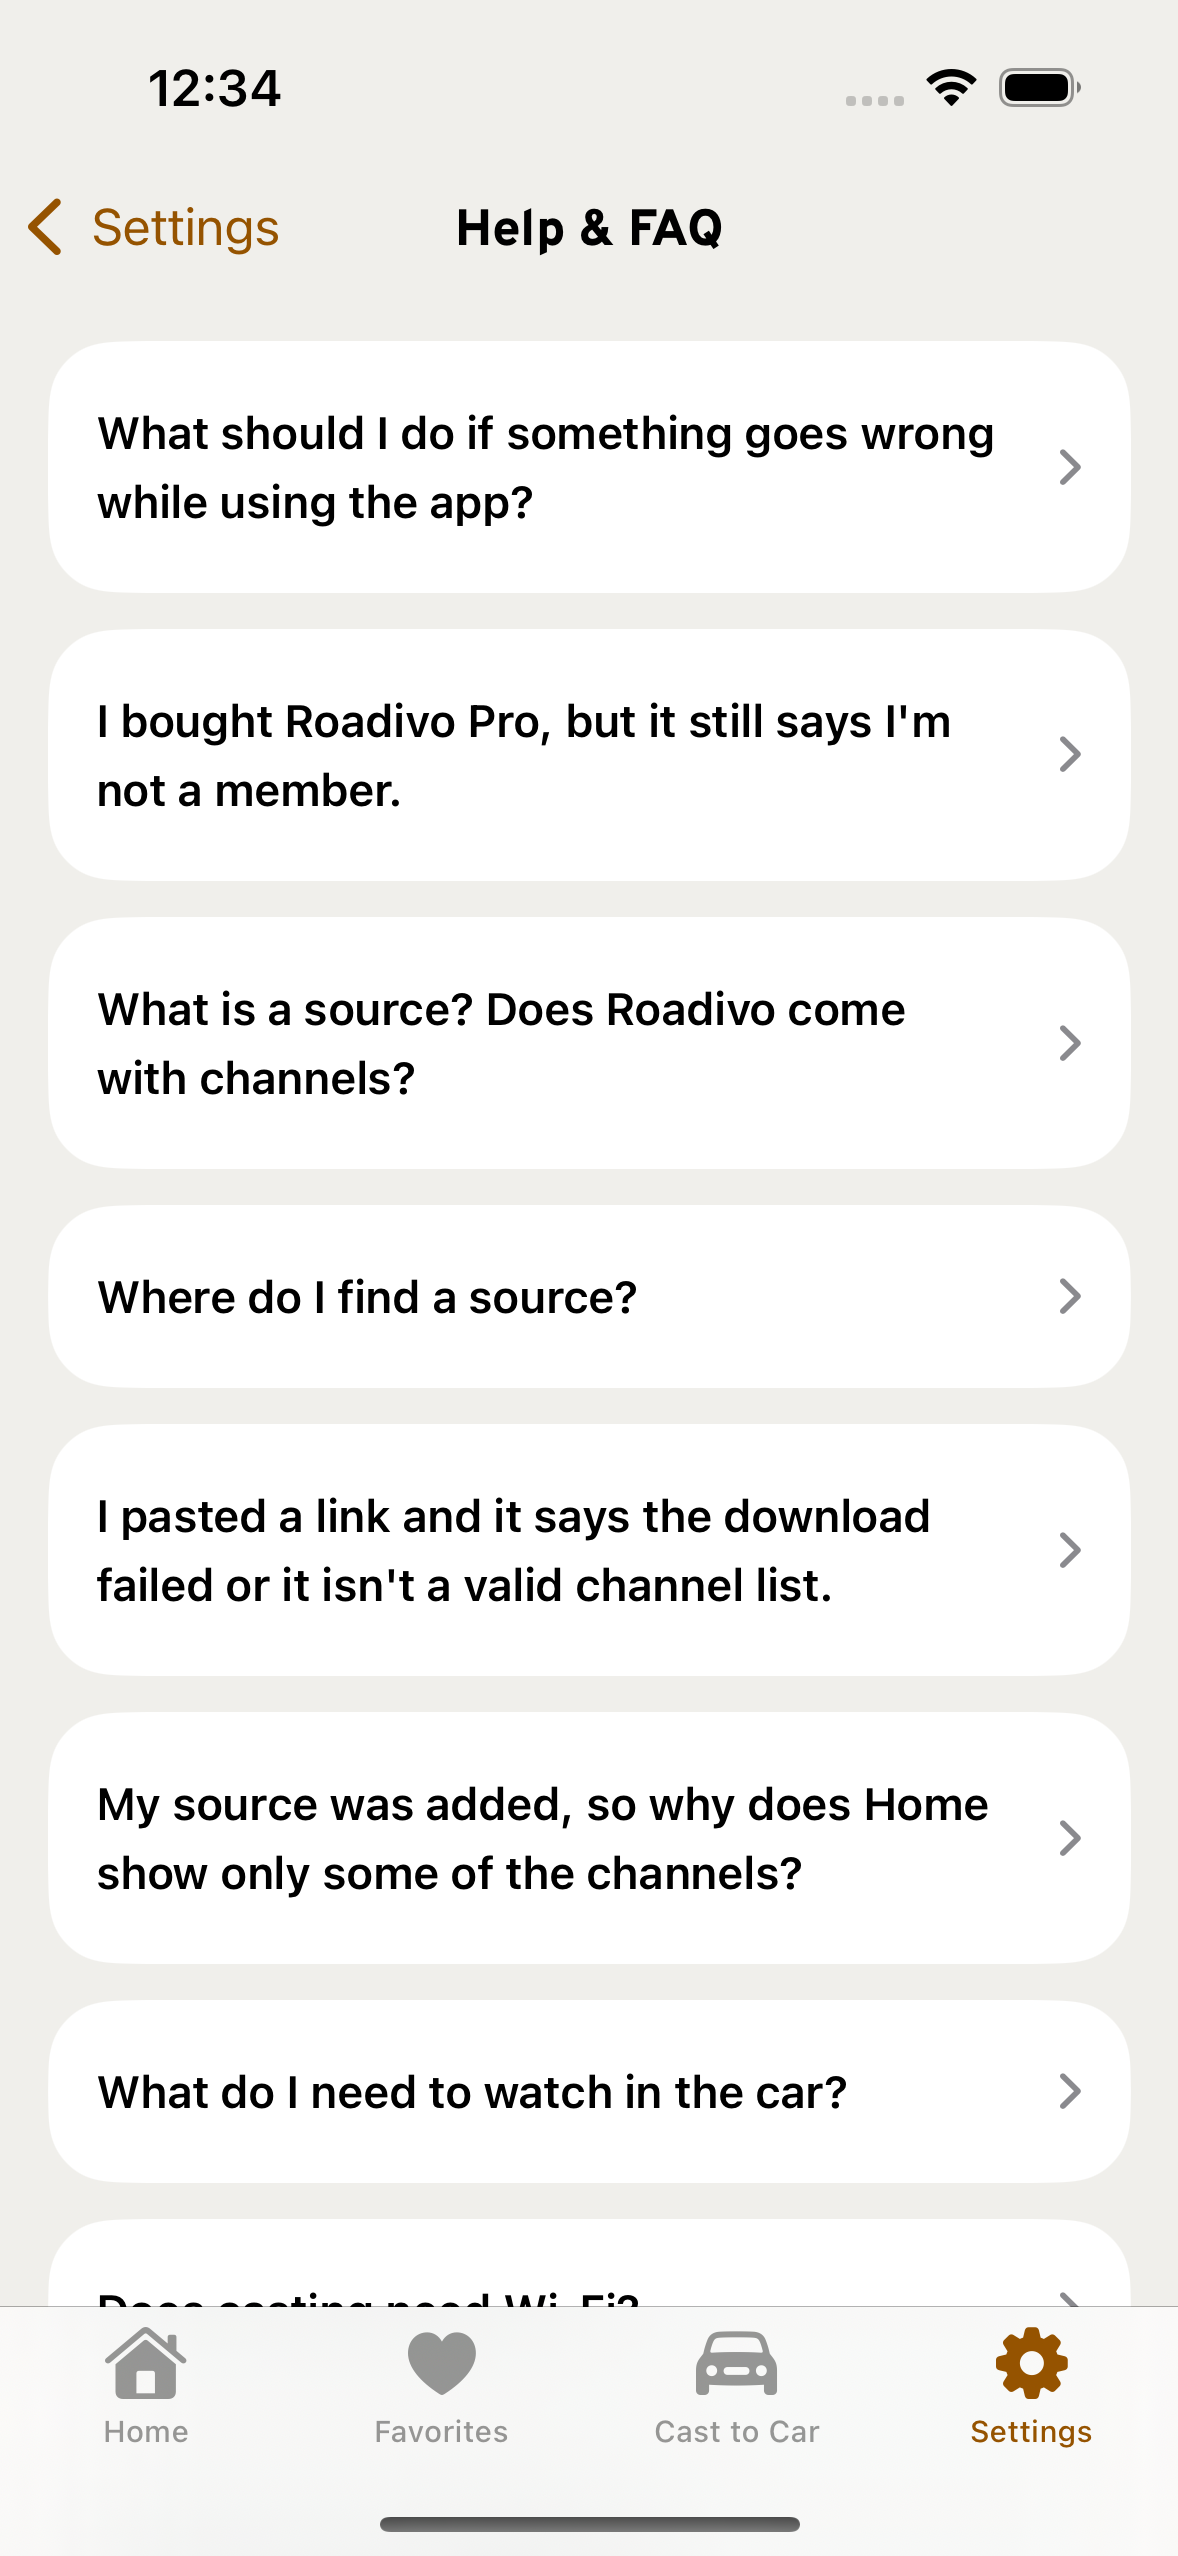
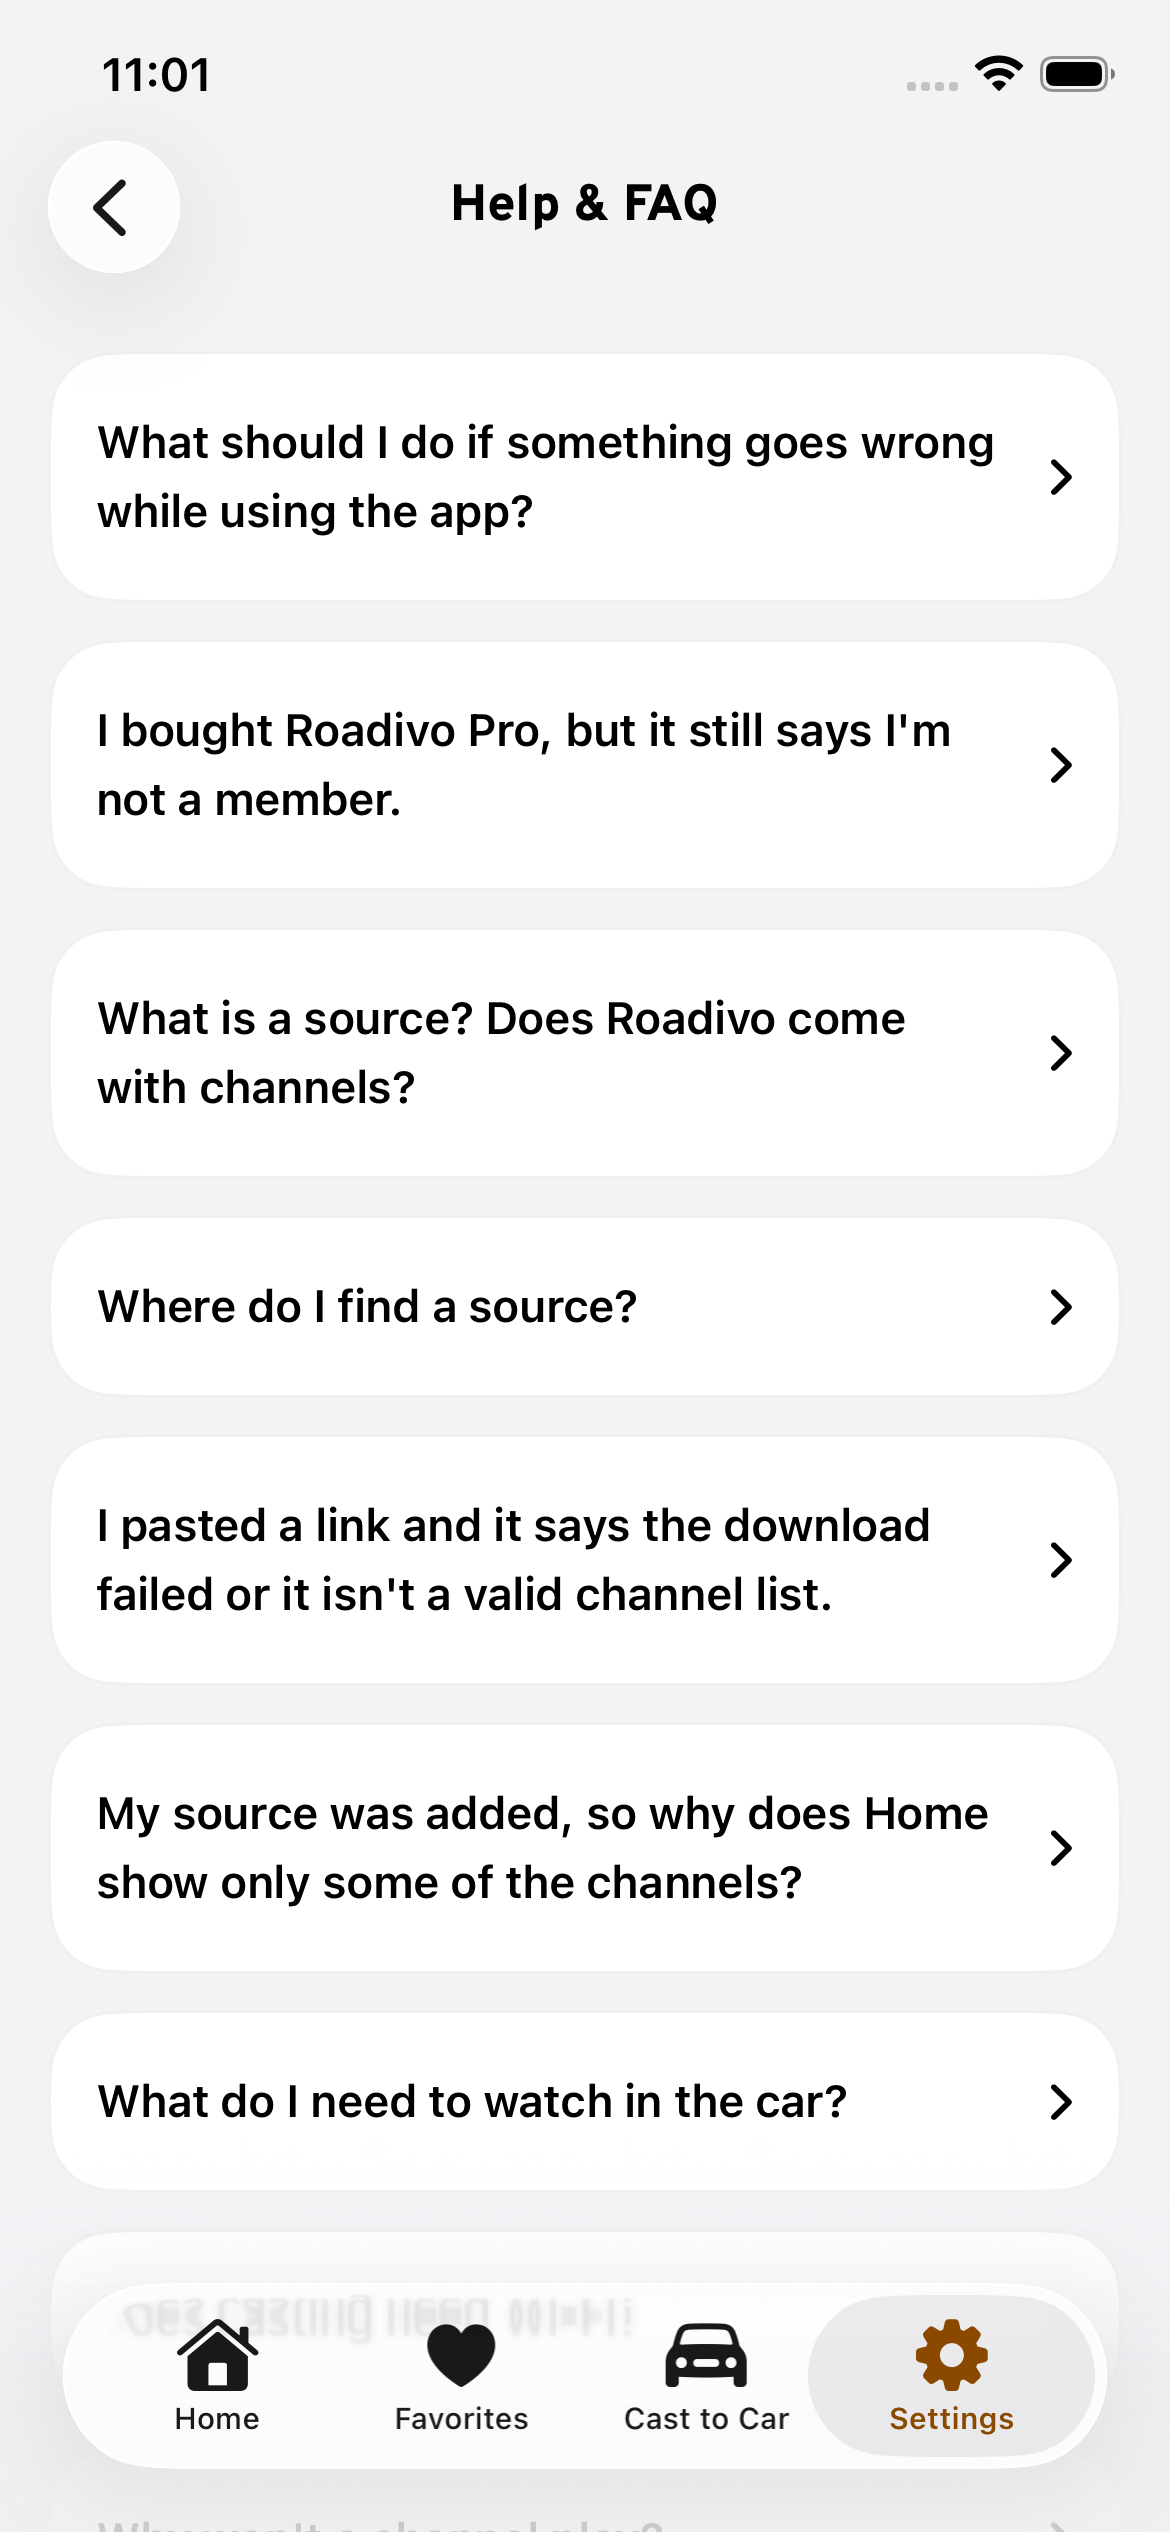
fix: regenerate screeshots to match new UI.

diff --git a/Tests/UITests/Launch.swift b/Tests/UITests/Launch.swift
@@ -56,9 +56,21 @@ extension XCTestCase {
         XCTAssertTrue(app.buttons["player.minimize"].waitForExistence(timeout: 3))
     }
 
-    /// Attaches a named screenshot (and, under fastlane, is where `snapshot()` hooks in).
+    /// Attaches a named screenshot (and, under fastlane, is where `snapshot()` hooks in). It waits
+    /// for the screen to settle first, so a push or sheet is never caught halfway (up to ~3 s).
     func snapshot(_ name: String, app: XCUIApplication) {
-        let attachment = XCTAttachment(screenshot: app.screenshot())
+        var screenshot = app.screenshot()
+        for _ in 0..<12 {
+            let settled = expectation(description: "screen settles")
+            settled.isInverted = true
+            wait(for: [settled], timeout: 0.25)
+            let next = app.screenshot()
+            if next.pngRepresentation == screenshot.pngRepresentation {
+                break
+            }
+            screenshot = next
+        }
+        let attachment = XCTAttachment(screenshot: screenshot)
         attachment.name = name
         attachment.lifetime = .keepAlways
         add(attachment)

diff --git a/Tests/UITests/ScreenshotUITests.swift b/Tests/UITests/ScreenshotUITests.swift
@@ -80,11 +80,17 @@ final class ScreenshotUITests: XCTestCase {
         snapshot("21-Language", app: app)
         app.navigationBars.buttons.element(boundBy: 0).tap()
         app.buttons["settings.privacy"].tap()
+        // The bundled policy page has loaded once its heading is readable.
+        XCTAssertTrue(app.webViews.staticTexts["Roadivo Privacy Policy"].waitForExistence(timeout: 10))
         snapshot("22-Privacy", app: app)
         app.navigationBars.buttons.element(boundBy: 0).tap()
-        app.buttons["settings.help"].tap()
+        app.swipeUp() // Help sits below the fold, and list rows only exist once on screen.
+        let help = app.buttons["settings.help"]
+        XCTAssertTrue(help.waitForExistence(timeout: 5))
+        help.tap()
         snapshot("23-Help", app: app)
         app.navigationBars.buttons.element(boundBy: 0).tap()
+        app.swipeDown()
         app.buttons["settings.pro"].tap()
         XCTAssertTrue(app.buttons["paywall.close"].waitForExistence(timeout: 5))
         snapshot("24-Paywall-Settings", app: app)

diff --git a/Tests/UITests/ThemeUITests.swift b/Tests/UITests/ThemeUITests.swift
@@ -11,7 +11,9 @@ final class ThemeUITests: XCTestCase {
         let row = app.buttons["settings.theme"]
         XCTAssertTrue(row.waitForExistence(timeout: 5))
         row.tap()
-        XCTAssertTrue(app.buttons["theme.appearance.system"].waitForExistence(timeout: 5))
+        let system = app.buttons["theme.appearance.system"]
+        XCTAssertTrue(system.waitForExistence(timeout: 5))
+        waitUntilSettled(system, in: app) // An audit mid-push reports text "clipped" by the slide.
     }
 
     /// Each launch under -ui-testing starts from System + Golden Hour.

diff --git a/Tests/UITests/OnboardingFlowUITests.swift b/Tests/UITests/OnboardingFlowUITests.swift
@@ -33,6 +33,8 @@ final class OnboardingFlowUITests: XCTestCase {
         buy.tap()
         XCTAssertTrue(app.navigationBars["Home"].waitForExistence(timeout: 5))
         app.tabBars.buttons["Settings"].tap()
+        // The upgrade banner gives way to the active plan's.
+        XCTAssertTrue(app.buttons["settings.plan"].waitForExistence(timeout: 5))
         XCTAssertFalse(app.buttons["settings.pro"].exists)
     }
 

diff --git a/Features/Settings/SettingsView.swift b/Features/Settings/SettingsView.swift
@@ -139,7 +139,7 @@ struct SettingsView<SourcesScreen: View>: View {
             }
         }
         .buttonStyle(PressableStyle())
-        .accessibilityIdentifier("settings.pro")
+        .accessibilityIdentifier(isPro ? "settings.plan" : "settings.pro")
     }
 
     private var planSubtitle: Text {
